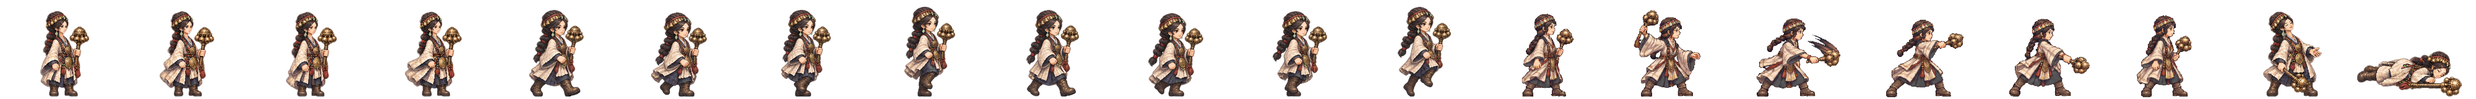
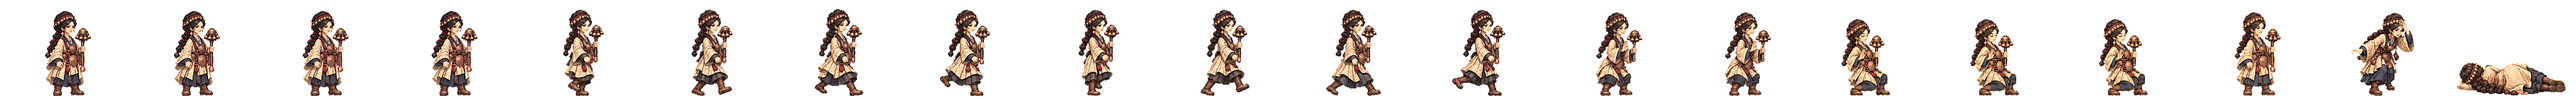
목지 진하 전투 띠를 새 방식으로: 서기(방울 막대 줄임 판)·걷기·손바닥으로 미는 시전 여덟 칸·방울 흔들기·쓰러짐·맞음 (Codex 그림 · 방울 막대를 먼 팔에 쥐게 안내 인형을 바꿔 다시 받음 · 걷기는 앞 판 · 걷기 다리 교대 약함) · 옛 2배 그림 연결 지움
Claude-Session: https://claude.ai/code/session_01TRiuN7s6aDfSnaHxrkctmU

Changed region(s): [[0.0, 0.0625, 1.0, 0.9688]]

diff --git a/src/realm/data/spritePx.ts b/src/realm/data/spritePx.ts
@@ -1,3 +1,3 @@
 /** public/realm/anim-px/manifest.json 의 사본 — tools/sprite-normalize.mjs 가 만든다 (손으로 고치지 말 것). 칸 [가로, 세로] · feet = 발 줄(칸 위에서 y) · bodyPx = 서 있는 몸 키 */
 import { expandManifest } from './sprite-manifest.ts'
-export const SPRITE_PX: Readonly<Record<string, { readonly cell: readonly [number, number]; readonly feet: number; readonly bodyPx: number; readonly kind: 'general' | 'soldier' | 'folk' | 'crowd'; readonly cells: number }>> = expandManifest<{ readonly cell: readonly [number, number]; readonly feet: number; readonly bodyPx: number; readonly kind: 'general' | 'soldier' | 'folk' | 'crowd'; readonly cells: number }>([{"cell":[166,128],"feet":126,"bodyPx":124,"kind":"soldier","cells":20},{"cell":[116,128],"feet":126,"bodyPx":117,"kind":"soldier","cells":20},{"cell":[127,128],"feet":126,"bodyPx":116,"kind":"soldier","cells":20},{"cell":[269,128],"feet":126,"bodyPx":126,"kind":"soldier","cells":20},{"cell":[503,128],"feet":126,"bodyPx":127,"kind":"soldier","cells":20},{"cell":[614,128],"feet":126,"bodyPx":126,"kind":"soldier","cells":20},{"cell":[200,160],"feet":156,"bodyPx":138,"kind":"general","cells":20},{"cell":[208,160],"feet":155,"bodyPx":138,"kind":"general","cells":20},{"cell":[208,160],"feet":154,"bodyPx":138,"kind":"general","cells":20},{"cell":[208,160],"feet":154,"bodyPx":135,"kind":"general","cells":20},{"cell":[184,160],"feet":156,"bodyPx":138,"kind":"general","cells":20},{"cell":[208,160],"feet":154,"bodyPx":136,"kind":"general","cells":20},{"cell":[208,160],"feet":156,"bodyPx":138,"kind":"general","cells":20},{"cell":[168,160],"feet":156,"bodyPx":124,"kind":"general","cells":20},{"cell":[216,160],"feet":156,"bodyPx":130,"kind":"general","cells":20},{"cell":[200,160],"feet":156,"bodyPx":116,"kind":"general","cells":20},{"cell":[192,160],"feet":156,"bodyPx":138,"kind":"general","cells":20},{"cell":[280,160],"feet":156,"bodyPx":138,"kind":"general","cells":20},{"cell":[232,160],"feet":156,"bodyPx":134,"kind":"general","cells":20},{"cell":[144,160],"feet":156,"bodyPx":70,"kind":"general","cells":20},{"cell":[208,160],"feet":156,"bodyPx":70,"kind":"general","cells":20},{"cell":[192,160],"feet":156,"bodyPx":70,"kind":"general","cells":20},{"cell":[240,160],"feet":155,"bodyPx":138,"kind":"general","cells":20},{"cell":[192,160],"feet":156,"bodyPx":128,"kind":"general","cells":20},{"cell":[232,160],"feet":156,"bodyPx":138,"kind":"general","cells":20},{"cell":[208,160],"feet":154,"bodyPx":137,"kind":"general","cells":20},{"cell":[208,160],"feet":154,"bodyPx":139,"kind":"general","cells":20},{"cell":[216,160],"feet":156,"bodyPx":138,"kind":"general","cells":20},{"cell":[208,160],"feet":156,"bodyPx":134,"kind":"general","cells":20},{"cell":[208,160],"feet":154,"bodyPx":130,"kind":"general","cells":20},{"cell":[248,160],"feet":156,"bodyPx":138,"kind":"general","cells":20},{"cell":[248,160],"feet":155,"bodyPx":138,"kind":"general","cells":20},{"cell":[192,160],"feet":155,"bodyPx":138,"kind":"general","cells":20},{"cell":[192,160],"feet":156,"bodyPx":124,"kind":"general","cells":20},{"cell":[208,160],"feet":154,"bodyPx":131,"kind":"general","cells":20},{"cell":[240,160],"feet":156,"bodyPx":138,"kind":"general","cells":20},{"cell":[232,160],"feet":156,"bodyPx":73,"kind":"general","cells":20},{"cell":[224,160],"feet":156,"bodyPx":138,"kind":"general","cells":20},{"cell":[224,160],"feet":156,"bodyPx":128,"kind":"general","cells":20},{"cell":[176,160],"feet":156,"bodyPx":129,"kind":"general","cells":20},{"cell":[232,160],"feet":155,"bodyPx":138,"kind":"general","cells":20},{"cell":[208,160],"feet":156,"bodyPx":132,"kind":"general","cells":20},{"cell":[184,160],"feet":156,"bodyPx":122,"kind":"general","cells":20},{"cell":[280,160],"feet":155,"bodyPx":133,"kind":"general","cells":20},{"cell":[176,160],"feet":156,"bodyPx":70,"kind":"general","cells":20},{"cell":[186,128],"feet":126,"bodyPx":127,"kind":"soldier","cells":20},{"cell":[298,128],"feet":126,"bodyPx":126,"kind":"soldier","cells":20},{"cell":[82,128],"feet":126,"bodyPx":114,"kind":"folk","cells":8},{"cell":[134,128],"feet":126,"bodyPx":119,"kind":"soldier","cells":20},{"cell":[380,128],"feet":126,"bodyPx":124,"kind":"soldier","cells":20},{"cell":[114,128],"feet":126,"bodyPx":115,"kind":"soldier","cells":20},{"cell":[122,128],"feet":126,"bodyPx":114,"kind":"soldier","cells":20},{"cell":[254,128],"feet":126,"bodyPx":128,"kind":"soldier","cells":20},{"cell":[438,128],"feet":126,"bodyPx":126,"kind":"soldier","cells":20},{"cell":[88,128],"feet":126,"bodyPx":113,"kind":"folk","cells":8},{"cell":[100,128],"feet":126,"bodyPx":115,"kind":"folk","cells":8},{"cell":[108,128],"feet":126,"bodyPx":115,"kind":"folk","cells":8},{"cell":[63,128],"feet":126,"bodyPx":113,"kind":"folk","cells":8},{"cell":[69,96],"feet":96,"bodyPx":96,"kind":"crowd","cells":1},{"cell":[54,96],"feet":96,"bodyPx":96,"kind":"crowd","cells":1},{"cell":[47,96],"feet":96,"bodyPx":96,"kind":"crowd","cells":1},{"cell":[49,96],"feet":96,"bodyPx":96,"kind":"crowd","cells":1},{"cell":[57,96],"feet":96,"bodyPx":96,"kind":"crowd","cells":1},{"cell":[55,96],"feet":96,"bodyPx":96,"kind":"crowd","cells":1},{"cell":[45,96],"feet":96,"bodyPx":96,"kind":"crowd","cells":1},{"cell":[53,96],"feet":96,"bodyPx":96,"kind":"crowd","cells":1},{"cell":[64,96],"feet":96,"bodyPx":96,"kind":"crowd","cells":1},{"cell":[264,160],"feet":156,"bodyPx":138,"kind":"general","cells":20},{"cell":[184,160],"feet":156,"bodyPx":124,"kind":"general","cells":20},{"cell":[256,160],"feet":156,"bodyPx":138,"kind":"general","cells":20},{"cell":[208,160],"feet":154,"bodyPx":134,"kind":"general","cells":20},{"cell":[224,160],"feet":156,"bodyPx":133,"kind":"general","cells":20},{"cell":[184,160],"feet":156,"bodyPx":137,"kind":"general","cells":20},{"cell":[176,160],"feet":156,"bodyPx":130,"kind":"general","cells":20},{"cell":[216,160],"feet":156,"bodyPx":134,"kind":"general","cells":20},{"cell":[216,160],"feet":156,"bodyPx":132,"kind":"general","cells":20},{"cell":[288,160],"feet":156,"bodyPx":138,"kind":"general","cells":20},{"cell":[192,160],"feet":156,"bodyPx":118,"kind":"general","cells":20},{"cell":[208,160],"feet":154,"bodyPx":132,"kind":"general","cells":20},{"cell":[208,160],"feet":154,"bodyPx":128,"kind":"general","cells":20},{"cell":[240,160],"feet":156,"bodyPx":128,"kind":"general","cells":20},{"cell":[184,160],"feet":156,"bodyPx":132,"kind":"general","cells":20},{"cell":[208,160],"feet":156,"bodyPx":123,"kind":"general","cells":20},{"cell":[192,160],"feet":156,"bodyPx":135,"kind":"general","cells":20},{"cell":[176,160],"feet":156,"bodyPx":116,"kind":"general","cells":20},{"cell":[272,160],"feet":156,"bodyPx":138,"kind":"general","cells":20},{"cell":[176,160],"feet":156,"bodyPx":138,"kind":"general","cells":20},{"cell":[176,160],"feet":156,"bodyPx":122,"kind":"general","cells":20},{"cell":[232,160],"feet":156,"bodyPx":127,"kind":"general","cells":20},{"cell":[184,160],"feet":156,"bodyPx":134,"kind":"general","cells":20},{"cell":[168,160],"feet":156,"bodyPx":138,"kind":"general","cells":20},{"cell":[176,160],"feet":156,"bodyPx":137,"kind":"general","cells":20},{"cell":[184,160],"feet":156,"bodyPx":133,"kind":"general","cells":20}],[["axe",0],["bandit-chief",1],["bandit-club",2],["boat",3],["bow",4],["crossbow",5],["gen-adogan",6],["gen-alpyeong",7],["gen-ara",8],["gen-areum",8],["gen-aryeong",9],["gen-bakdal",8],["gen-baram",8],["gen-bdanbi",10],["gen-beom",11],["gen-beombal",8],["gen-beomi",8],["gen-bira",8],["gen-biryu",12],["gen-budeul",8],["gen-byeol",8],["gen-daemusin",13],["gen-daeso",14],["gen-dallae2",8],["gen-dalli",8],["gen-damul",15],["gen-danbi",8],["gen-dangung",16],["gen-darae",9],["gen-dokmudeom",8],["gen-duman",17],["gen-eomni",8],["gen-eureum",18],["gen-g-bow",19],["gen-g-spear",20],["gen-g-sword",21],["gen-gaennae",8],["gen-gamsil",22],["gen-gaon",9],["gen-geota",12],["gen-geumbawi",10],["gen-geumha",23],["gen-goeun",8],["gen-gom",8],["gen-gomok",12],["gen-gureum",8],["gen-guryema",16],["gen-gwaeyu",24],["gen-haebi",8],["gen-haedal",6],["gen-haesol",8],["gen-halla",25],["gen-heo",8],["gen-hneoul",26],["gen-hogong",27],["gen-hojin",12],["gen-horselord",28],["gen-hwalmi",29],["gen-hyeokgeose",16],["gen-hyeopbo",6],["gen-irang",8],["gen-jibaekho",30],["gen-jinha",31],["gen-jita",32],["gen-jumong",33],["gen-keundol",7],["gen-maehwa",34],["gen-maenun",16],["gen-malgalgi",8],["gen-mari",35],["gen-maro",30],["gen-maryeo",12],["gen-mdallae",8],["gen-mir",8],["gen-mount",36],["gen-mulbeom",25],["gen-mulsae",25],["gen-musoe",27],["gen-noeul",8],["gen-nuri",8],["gen-ocheongan",37],["gen-odi",8],["gen-odogan",6],["gen-ogan",16],["gen-oi",38],["gen-olddaeso",18],["gen-onjo",39],["gen-pidogan",12],["gen-sagong",26],["gen-sdallae",8],["gen-sincheongan",8],["gen-singwigan",27],["gen-sinneoul",8],["gen-sobeol",40],["gen-soebi",8],["gen-soebo",41],["gen-soenun",26],["gen-sogeumbi",25],["gen-songbi",8],["gen-songyang",42],["gen-sori",8],["gen-soseono",43],["gen-suro",16],["gen-tahae",6],["gen-tneoul",8],["gen-w-bow",19],["gen-w-spear",44],["gen-waechief",12],["gen-wan",27],["gen-yeodogan",12],["gen-yucheongan",8],["gen-yusugan",30],["horse",45],["marine",46],["migrant",47],["militia",48],["pike",49],["pirate-captain",50],["pirate-sword",51],["shield",52],["spear",53],["villager-builder",54],["villager-farmer",55],["villager-porter",56],["villager-woman",57],["crowd-b1",58],["crowd-b2",59],["crowd-b3",60],["crowd-b4",61],["crowd-b5",62],["crowd-b6",63],["crowd-f1",58],["crowd-f2",63],["crowd-f3",64],["crowd-f4",65],["crowd-f5",58],["crowd-f6",66],["gen-dalbit",12],["gen-base-g-07-drunk-warrior",16],["gen-base-g-40-anya-adan",12],["gen-base-w-13-young-archer",8],["gen-base-g-03-sea-trader",35],["gen-base-w-10-pirate-captain",26],["gen-base-w-64-miri-dallae",26],["gen-base-g-41-goja-bau",35],["gen-base-g-42-dokro-garam",67],["gen-base-g-09-farmer-conscript",27],["gen-base-w-02-goguryeo-lady",8],["gen-base-w-17-mahan-pearl-diver",8],["gen-base-g-17-saro-isageum",41],["gen-base-g-18-daegaya-king",68],["gen-base-g-35-dabeol-dalgu",12],["gen-base-g-19-sabeol-veteran",27],["gen-base-w-23-usisan-whale-queen",8],["gen-base-g-36-gammun-gamdol",37],["gen-base-g-20-samul-sea-lord",69],["gen-base-g-37-eumjeup-jeup",10],["gen-base-g-38-chopal-palmae",16],["gen-base-w-75-daegaya-soemoe",8],["gen-base-g-45-dabeol-deulgae",10],["gen-base-g-04-jinhan-giant",12],["gen-base-g-08-veteran",12],["gen-base-w-18-jinhan-salt-widow",8],["gen-base-w-12-court-dancer",70],["gen-base-w-83-gyeonji-beodeul",71],["gen-base-w-05-baekje-queen",9],["gen-base-w-21-baekje-court-dancer",10],["gen-base-g-01-master-smith",72],["gen-base-g-93-jomun-solgae",73],["gen-base-g-57-bihwa-neup",35],["gen-base-w-72-eumjeup-beol",8],["gen-base-w-102-garak-dana",26],["gen-base-g-68-baekje-onnuri",12],["gen-base-w-27-mokji-jinha",6],["gen-base-g-22-ungcheon-gomnae",6],["gen-base-g-23-sangdang-soedal",12],["gen-base-g-24-wansan-onsan",6],["gen-base-g-25-balla-keunmoe",27],["gen-base-g-61-heomcheuk-bawi",27],["gen-base-g-88-wander-soeul",37],["gen-base-w-14-feast-spy",8],["gen-base-g-12-silla-youth",74],["gen-base-w-08-mahan-warrior",8],["gen-base-g-62-beonye-hanul",35],["gen-base-g-63-heomcheuk-beogeum",12],["gen-base-g-84-wander-seoneul",12],["gen-base-w-50-siljik-mulga",27],["gen-base-g-46-uga-nureongso",27],["gen-base-w-80-usan-gangchi",26],["gen-base-g-47-guga-sanyanggae",27],["gen-base-w-76-gampyeong-baetsagong",8],["gen-base-g-05-mahan-chieftain",75],["gen-base-g-58-usan-uhae",12],["gen-base-g-27-maek-maekdol",12],["gen-base-w-53-hwanna-gabi",26],["gen-base-w-29-golpo-janmul",8],["gen-base-g-53-baekje-haeru",6],["gen-base-w-71-yeonna-neoul",8],["gen-base-w-79-yangmaek-solmae",8],["gen-base-w-34-chopal-deulme",8],["gen-base-g-44-maga-malgup",76],["gen-base-w-31-dabeol-dalbit",26],["gen-base-g-51-biryuna-mulgyeol",37],["gen-base-g-48-gwanna-musoe",12],["gen-base-g-32-uga-sodu",24],["gen-base-g-49-goguryeo-sona",77],["gen-base-g-30-gwanna-soemoe",37],["gen-base-g-52-tamna-oreum",10],["gen-base-g-29-yeonna-myeongsol",33],["gen-base-w-56-dongokjeo-sogeum",70],["gen-base-g-54-mokji-mahan",24],["gen-base-g-33-jeoga-metdol",16],["gen-base-w-36-baekje-maena",8],["gen-base-w-38-sangdang-bulmae",26],["gen-base-w-39-gosaburi-galmae",8],["gen-base-w-40-mujin-munui",78],["gen-base-w-41-hwanna-beodeul",79],["gen-base-w-43-uga-nuri",69],["gen-base-w-45-tamna-oreumbi",10],["gen-base-g-60-golbeol-golgae",10],["gen-base-g-61-apdok-ap",27],["gen-base-g-62-gammun-gamnamu",6],["gen-base-g-63-chopal-yeoul",30],["gen-base-g-64-michuhol-sogeumkkun",35],["gen-base-g-65-sangdang-soemangchi",37],["gen-base-g-66-geonma-malbalgup",80],["gen-base-g-67-gosaburi-buri",81],["gen-base-g-68-mujin-bitgoeul",10],["gen-base-g-69-goryong-yong",37],["gen-base-g-70-siljik-pado",35],["gen-base-w-81-byeokjin-byeolbit",8],["gen-base-w-46-geonma-maru",8],["gen-base-w-48-mujin-mudeung",8],["gen-base-g-26-gampyeong-gaetbeol",24],["gen-base-g-60-eupcha-hangyeol",82],["gen-base-g-15-shaman-man",27],["gen-base-g-85-wander-ure",30],["gen-base-g-43-hwanna-amnok",12],["gen-base-g-50-bullae-gwaha",83],["gen-base-g-55-saro-bakdal",12],["gen-base-g-56-haseulla-gwahama",6],["gen-base-w-06-buyeo-huntress",25],["gen-base-w-22-dongye-tiger-huntress",8],["gen-base-w-25-bihwa-priestess",8],["gen-base-w-24-apdok-queen",8],["gen-base-w-61-iseo-sinae",8],["gen-base-w-26-iseo-tomboy-general",8],["gen-base-g-59-yangmaek-maekson",84],["gen-aw1-haebi",37],["gen-aw1-soseono",85],["gen-aw1-gamsil",10],["gen-aw1-mir",86],["gen-aw1-dangung",6],["gen-aw1-ara",37],["gen-aw1-jumong",87],["gen-aw1-onjo",88],["gen-aw1-base-w-83-gyeonji-beodeul",16],["gen-aw1-heo",67],["gen-aw1-base-g-38-chopal-palmae",6],["gen-aw1-base-w-25-bihwa-priestess",89],["gen-aw1-sori",90],["gen-aw1-gomok",6],["gen-aw1-irang",16],["gen-aw1-budeul",90],["gen-aw1-gom",35],["gen-aw1-sdallae",6],["gen-aw1-base-w-13-young-archer",6],["gen-aw1-base-w-36-baekje-maena",91],["gen-aw1-base-g-09-farmer-conscript",67],["gen-aw1-base-w-02-goguryeo-lady",92],["gen-aw1-haedal",10],["gen-aw1-hogong",6],["gen-aw1-maehwa",86],["gen-aw1-base-w-06-buyeo-huntress",24],["gen-aw1-base-w-08-mahan-warrior",37],["gen-aw1-base-w-29-golpo-janmul",37],["gen-aw1-base-w-31-dabeol-dalbit",16],["gen-aw1-base-w-38-sangdang-bulmae",90],["gen-aw1-bira",27],["gen-aw1-base-w-53-hwanna-gabi",90],["gen-aw1-base-w-56-dongokjeo-sogeum",86],["gen-aw1-base-w-72-eumjeup-beol",16],["gen-aw1-bdanbi",90],["gen-aw1-beom",10],["gen-aw1-beombal",10],["gen-aw1-byeol",16],["gen-aw1-dalli",86],["gen-aw1-malgalgi",30],["gen-aw1-sincheongan",27]])
+export const SPRITE_PX: Readonly<Record<string, { readonly cell: readonly [number, number]; readonly feet: number; readonly bodyPx: number; readonly kind: 'general' | 'soldier' | 'folk' | 'crowd'; readonly cells: number }>> = expandManifest<{ readonly cell: readonly [number, number]; readonly feet: number; readonly bodyPx: number; readonly kind: 'general' | 'soldier' | 'folk' | 'crowd'; readonly cells: number }>([{"cell":[166,128],"feet":126,"bodyPx":124,"kind":"soldier","cells":20},{"cell":[116,128],"feet":126,"bodyPx":117,"kind":"soldier","cells":20},{"cell":[127,128],"feet":126,"bodyPx":116,"kind":"soldier","cells":20},{"cell":[269,128],"feet":126,"bodyPx":126,"kind":"soldier","cells":20},{"cell":[503,128],"feet":126,"bodyPx":127,"kind":"soldier","cells":20},{"cell":[614,128],"feet":126,"bodyPx":126,"kind":"soldier","cells":20},{"cell":[200,160],"feet":156,"bodyPx":138,"kind":"general","cells":20},{"cell":[208,160],"feet":155,"bodyPx":138,"kind":"general","cells":20},{"cell":[208,160],"feet":154,"bodyPx":138,"kind":"general","cells":20},{"cell":[208,160],"feet":154,"bodyPx":135,"kind":"general","cells":20},{"cell":[184,160],"feet":156,"bodyPx":138,"kind":"general","cells":20},{"cell":[208,160],"feet":154,"bodyPx":136,"kind":"general","cells":20},{"cell":[208,160],"feet":156,"bodyPx":138,"kind":"general","cells":20},{"cell":[168,160],"feet":156,"bodyPx":124,"kind":"general","cells":20},{"cell":[216,160],"feet":156,"bodyPx":130,"kind":"general","cells":20},{"cell":[200,160],"feet":156,"bodyPx":116,"kind":"general","cells":20},{"cell":[192,160],"feet":156,"bodyPx":138,"kind":"general","cells":20},{"cell":[280,160],"feet":156,"bodyPx":138,"kind":"general","cells":20},{"cell":[232,160],"feet":156,"bodyPx":134,"kind":"general","cells":20},{"cell":[144,160],"feet":156,"bodyPx":70,"kind":"general","cells":20},{"cell":[208,160],"feet":156,"bodyPx":70,"kind":"general","cells":20},{"cell":[192,160],"feet":156,"bodyPx":70,"kind":"general","cells":20},{"cell":[240,160],"feet":155,"bodyPx":138,"kind":"general","cells":20},{"cell":[192,160],"feet":156,"bodyPx":128,"kind":"general","cells":20},{"cell":[232,160],"feet":156,"bodyPx":138,"kind":"general","cells":20},{"cell":[208,160],"feet":154,"bodyPx":137,"kind":"general","cells":20},{"cell":[208,160],"feet":154,"bodyPx":139,"kind":"general","cells":20},{"cell":[216,160],"feet":156,"bodyPx":138,"kind":"general","cells":20},{"cell":[208,160],"feet":156,"bodyPx":134,"kind":"general","cells":20},{"cell":[208,160],"feet":154,"bodyPx":130,"kind":"general","cells":20},{"cell":[248,160],"feet":156,"bodyPx":138,"kind":"general","cells":20},{"cell":[248,160],"feet":155,"bodyPx":138,"kind":"general","cells":20},{"cell":[192,160],"feet":155,"bodyPx":138,"kind":"general","cells":20},{"cell":[192,160],"feet":156,"bodyPx":124,"kind":"general","cells":20},{"cell":[208,160],"feet":154,"bodyPx":131,"kind":"general","cells":20},{"cell":[240,160],"feet":156,"bodyPx":138,"kind":"general","cells":20},{"cell":[232,160],"feet":156,"bodyPx":73,"kind":"general","cells":20},{"cell":[224,160],"feet":156,"bodyPx":138,"kind":"general","cells":20},{"cell":[224,160],"feet":156,"bodyPx":128,"kind":"general","cells":20},{"cell":[176,160],"feet":156,"bodyPx":129,"kind":"general","cells":20},{"cell":[232,160],"feet":155,"bodyPx":138,"kind":"general","cells":20},{"cell":[208,160],"feet":156,"bodyPx":132,"kind":"general","cells":20},{"cell":[184,160],"feet":156,"bodyPx":122,"kind":"general","cells":20},{"cell":[280,160],"feet":155,"bodyPx":133,"kind":"general","cells":20},{"cell":[176,160],"feet":156,"bodyPx":70,"kind":"general","cells":20},{"cell":[186,128],"feet":126,"bodyPx":127,"kind":"soldier","cells":20},{"cell":[298,128],"feet":126,"bodyPx":126,"kind":"soldier","cells":20},{"cell":[82,128],"feet":126,"bodyPx":114,"kind":"folk","cells":8},{"cell":[134,128],"feet":126,"bodyPx":119,"kind":"soldier","cells":20},{"cell":[380,128],"feet":126,"bodyPx":124,"kind":"soldier","cells":20},{"cell":[114,128],"feet":126,"bodyPx":115,"kind":"soldier","cells":20},{"cell":[122,128],"feet":126,"bodyPx":114,"kind":"soldier","cells":20},{"cell":[254,128],"feet":126,"bodyPx":128,"kind":"soldier","cells":20},{"cell":[438,128],"feet":126,"bodyPx":126,"kind":"soldier","cells":20},{"cell":[88,128],"feet":126,"bodyPx":113,"kind":"folk","cells":8},{"cell":[100,128],"feet":126,"bodyPx":115,"kind":"folk","cells":8},{"cell":[108,128],"feet":126,"bodyPx":115,"kind":"folk","cells":8},{"cell":[63,128],"feet":126,"bodyPx":113,"kind":"folk","cells":8},{"cell":[69,96],"feet":96,"bodyPx":96,"kind":"crowd","cells":1},{"cell":[54,96],"feet":96,"bodyPx":96,"kind":"crowd","cells":1},{"cell":[47,96],"feet":96,"bodyPx":96,"kind":"crowd","cells":1},{"cell":[49,96],"feet":96,"bodyPx":96,"kind":"crowd","cells":1},{"cell":[57,96],"feet":96,"bodyPx":96,"kind":"crowd","cells":1},{"cell":[55,96],"feet":96,"bodyPx":96,"kind":"crowd","cells":1},{"cell":[45,96],"feet":96,"bodyPx":96,"kind":"crowd","cells":1},{"cell":[53,96],"feet":96,"bodyPx":96,"kind":"crowd","cells":1},{"cell":[64,96],"feet":96,"bodyPx":96,"kind":"crowd","cells":1},{"cell":[264,160],"feet":156,"bodyPx":138,"kind":"general","cells":20},{"cell":[184,160],"feet":156,"bodyPx":124,"kind":"general","cells":20},{"cell":[256,160],"feet":156,"bodyPx":138,"kind":"general","cells":20},{"cell":[208,160],"feet":154,"bodyPx":134,"kind":"general","cells":20},{"cell":[224,160],"feet":156,"bodyPx":133,"kind":"general","cells":20},{"cell":[184,160],"feet":156,"bodyPx":137,"kind":"general","cells":20},{"cell":[176,160],"feet":156,"bodyPx":130,"kind":"general","cells":20},{"cell":[216,160],"feet":156,"bodyPx":134,"kind":"general","cells":20},{"cell":[216,160],"feet":156,"bodyPx":132,"kind":"general","cells":20},{"cell":[288,160],"feet":156,"bodyPx":138,"kind":"general","cells":20},{"cell":[192,160],"feet":156,"bodyPx":118,"kind":"general","cells":20},{"cell":[208,160],"feet":154,"bodyPx":132,"kind":"general","cells":20},{"cell":[208,160],"feet":154,"bodyPx":128,"kind":"general","cells":20},{"cell":[240,160],"feet":156,"bodyPx":128,"kind":"general","cells":20},{"cell":[184,160],"feet":156,"bodyPx":132,"kind":"general","cells":20},{"cell":[208,160],"feet":156,"bodyPx":123,"kind":"general","cells":20},{"cell":[192,160],"feet":156,"bodyPx":135,"kind":"general","cells":20},{"cell":[176,160],"feet":156,"bodyPx":116,"kind":"general","cells":20},{"cell":[272,160],"feet":156,"bodyPx":138,"kind":"general","cells":20},{"cell":[176,160],"feet":156,"bodyPx":138,"kind":"general","cells":20},{"cell":[176,160],"feet":156,"bodyPx":122,"kind":"general","cells":20},{"cell":[232,160],"feet":156,"bodyPx":127,"kind":"general","cells":20},{"cell":[184,160],"feet":156,"bodyPx":134,"kind":"general","cells":20},{"cell":[168,160],"feet":156,"bodyPx":138,"kind":"general","cells":20},{"cell":[176,160],"feet":156,"bodyPx":137,"kind":"general","cells":20},{"cell":[184,160],"feet":156,"bodyPx":133,"kind":"general","cells":20}],[["axe",0],["bandit-chief",1],["bandit-club",2],["boat",3],["bow",4],["crossbow",5],["gen-adogan",6],["gen-alpyeong",7],["gen-ara",8],["gen-areum",8],["gen-aryeong",9],["gen-bakdal",8],["gen-baram",8],["gen-bdanbi",10],["gen-beom",11],["gen-beombal",8],["gen-beomi",8],["gen-bira",8],["gen-biryu",12],["gen-budeul",8],["gen-byeol",8],["gen-daemusin",13],["gen-daeso",14],["gen-dallae2",8],["gen-dalli",8],["gen-damul",15],["gen-danbi",8],["gen-dangung",16],["gen-darae",9],["gen-dokmudeom",8],["gen-duman",17],["gen-eomni",8],["gen-eureum",18],["gen-g-bow",19],["gen-g-spear",20],["gen-g-sword",21],["gen-gaennae",8],["gen-gamsil",22],["gen-gaon",9],["gen-geota",12],["gen-geumbawi",10],["gen-geumha",23],["gen-goeun",8],["gen-gom",8],["gen-gomok",12],["gen-gureum",8],["gen-guryema",16],["gen-gwaeyu",24],["gen-haebi",8],["gen-haedal",6],["gen-haesol",8],["gen-halla",25],["gen-heo",8],["gen-hneoul",26],["gen-hogong",27],["gen-hojin",12],["gen-horselord",28],["gen-hwalmi",29],["gen-hyeokgeose",16],["gen-hyeopbo",6],["gen-irang",8],["gen-jibaekho",30],["gen-jinha",31],["gen-jita",32],["gen-jumong",33],["gen-keundol",7],["gen-maehwa",34],["gen-maenun",16],["gen-malgalgi",8],["gen-mari",35],["gen-maro",30],["gen-maryeo",12],["gen-mdallae",8],["gen-mir",8],["gen-mount",36],["gen-mulbeom",25],["gen-mulsae",25],["gen-musoe",27],["gen-noeul",8],["gen-nuri",8],["gen-ocheongan",37],["gen-odi",8],["gen-odogan",6],["gen-ogan",16],["gen-oi",38],["gen-olddaeso",18],["gen-onjo",39],["gen-pidogan",12],["gen-sagong",26],["gen-sdallae",8],["gen-sincheongan",8],["gen-singwigan",27],["gen-sinneoul",8],["gen-sobeol",40],["gen-soebi",8],["gen-soebo",41],["gen-soenun",26],["gen-sogeumbi",25],["gen-songbi",8],["gen-songyang",42],["gen-sori",8],["gen-soseono",43],["gen-suro",16],["gen-tahae",6],["gen-tneoul",8],["gen-w-bow",19],["gen-w-spear",44],["gen-waechief",12],["gen-wan",27],["gen-yeodogan",12],["gen-yucheongan",8],["gen-yusugan",30],["horse",45],["marine",46],["migrant",47],["militia",48],["pike",49],["pirate-captain",50],["pirate-sword",51],["shield",52],["spear",53],["villager-builder",54],["villager-farmer",55],["villager-porter",56],["villager-woman",57],["crowd-b1",58],["crowd-b2",59],["crowd-b3",60],["crowd-b4",61],["crowd-b5",62],["crowd-b6",63],["crowd-f1",58],["crowd-f2",63],["crowd-f3",64],["crowd-f4",65],["crowd-f5",58],["crowd-f6",66],["gen-dalbit",12],["gen-base-g-07-drunk-warrior",16],["gen-base-g-40-anya-adan",12],["gen-base-w-13-young-archer",8],["gen-base-g-03-sea-trader",35],["gen-base-w-10-pirate-captain",26],["gen-base-w-64-miri-dallae",26],["gen-base-g-41-goja-bau",35],["gen-base-g-42-dokro-garam",67],["gen-base-g-09-farmer-conscript",27],["gen-base-w-02-goguryeo-lady",8],["gen-base-w-17-mahan-pearl-diver",8],["gen-base-g-17-saro-isageum",41],["gen-base-g-18-daegaya-king",68],["gen-base-g-35-dabeol-dalgu",12],["gen-base-g-19-sabeol-veteran",27],["gen-base-w-23-usisan-whale-queen",8],["gen-base-g-36-gammun-gamdol",37],["gen-base-g-20-samul-sea-lord",69],["gen-base-g-37-eumjeup-jeup",10],["gen-base-g-38-chopal-palmae",16],["gen-base-w-75-daegaya-soemoe",8],["gen-base-g-45-dabeol-deulgae",10],["gen-base-g-04-jinhan-giant",12],["gen-base-g-08-veteran",12],["gen-base-w-18-jinhan-salt-widow",8],["gen-base-w-12-court-dancer",70],["gen-base-w-83-gyeonji-beodeul",71],["gen-base-w-05-baekje-queen",9],["gen-base-w-21-baekje-court-dancer",10],["gen-base-g-01-master-smith",72],["gen-base-g-93-jomun-solgae",73],["gen-base-g-57-bihwa-neup",35],["gen-base-w-72-eumjeup-beol",8],["gen-base-w-102-garak-dana",26],["gen-base-g-68-baekje-onnuri",12],["gen-base-w-27-mokji-jinha",25],["gen-base-g-22-ungcheon-gomnae",6],["gen-base-g-23-sangdang-soedal",12],["gen-base-g-24-wansan-onsan",6],["gen-base-g-25-balla-keunmoe",27],["gen-base-g-61-heomcheuk-bawi",27],["gen-base-g-88-wander-soeul",37],["gen-base-w-14-feast-spy",8],["gen-base-g-12-silla-youth",74],["gen-base-w-08-mahan-warrior",8],["gen-base-g-62-beonye-hanul",35],["gen-base-g-63-heomcheuk-beogeum",12],["gen-base-g-84-wander-seoneul",12],["gen-base-w-50-siljik-mulga",27],["gen-base-g-46-uga-nureongso",27],["gen-base-w-80-usan-gangchi",26],["gen-base-g-47-guga-sanyanggae",27],["gen-base-w-76-gampyeong-baetsagong",8],["gen-base-g-05-mahan-chieftain",75],["gen-base-g-58-usan-uhae",12],["gen-base-g-27-maek-maekdol",12],["gen-base-w-53-hwanna-gabi",26],["gen-base-w-29-golpo-janmul",8],["gen-base-g-53-baekje-haeru",6],["gen-base-w-71-yeonna-neoul",8],["gen-base-w-79-yangmaek-solmae",8],["gen-base-w-34-chopal-deulme",8],["gen-base-g-44-maga-malgup",76],["gen-base-w-31-dabeol-dalbit",26],["gen-base-g-51-biryuna-mulgyeol",37],["gen-base-g-48-gwanna-musoe",12],["gen-base-g-32-uga-sodu",24],["gen-base-g-49-goguryeo-sona",77],["gen-base-g-30-gwanna-soemoe",37],["gen-base-g-52-tamna-oreum",10],["gen-base-g-29-yeonna-myeongsol",33],["gen-base-w-56-dongokjeo-sogeum",70],["gen-base-g-54-mokji-mahan",24],["gen-base-g-33-jeoga-metdol",16],["gen-base-w-36-baekje-maena",8],["gen-base-w-38-sangdang-bulmae",26],["gen-base-w-39-gosaburi-galmae",8],["gen-base-w-40-mujin-munui",78],["gen-base-w-41-hwanna-beodeul",79],["gen-base-w-43-uga-nuri",69],["gen-base-w-45-tamna-oreumbi",10],["gen-base-g-60-golbeol-golgae",10],["gen-base-g-61-apdok-ap",27],["gen-base-g-62-gammun-gamnamu",6],["gen-base-g-63-chopal-yeoul",30],["gen-base-g-64-michuhol-sogeumkkun",35],["gen-base-g-65-sangdang-soemangchi",37],["gen-base-g-66-geonma-malbalgup",80],["gen-base-g-67-gosaburi-buri",81],["gen-base-g-68-mujin-bitgoeul",10],["gen-base-g-69-goryong-yong",37],["gen-base-g-70-siljik-pado",35],["gen-base-w-81-byeokjin-byeolbit",8],["gen-base-w-46-geonma-maru",8],["gen-base-w-48-mujin-mudeung",8],["gen-base-g-26-gampyeong-gaetbeol",24],["gen-base-g-60-eupcha-hangyeol",82],["gen-base-g-15-shaman-man",27],["gen-base-g-85-wander-ure",30],["gen-base-g-43-hwanna-amnok",12],["gen-base-g-50-bullae-gwaha",83],["gen-base-g-55-saro-bakdal",12],["gen-base-g-56-haseulla-gwahama",6],["gen-base-w-06-buyeo-huntress",25],["gen-base-w-22-dongye-tiger-huntress",8],["gen-base-w-25-bihwa-priestess",8],["gen-base-w-24-apdok-queen",8],["gen-base-w-61-iseo-sinae",8],["gen-base-w-26-iseo-tomboy-general",8],["gen-base-g-59-yangmaek-maekson",84],["gen-aw1-haebi",37],["gen-aw1-soseono",85],["gen-aw1-gamsil",10],["gen-aw1-mir",86],["gen-aw1-dangung",6],["gen-aw1-ara",37],["gen-aw1-jumong",87],["gen-aw1-onjo",88],["gen-aw1-base-w-83-gyeonji-beodeul",16],["gen-aw1-heo",67],["gen-aw1-base-g-38-chopal-palmae",6],["gen-aw1-base-w-25-bihwa-priestess",89],["gen-aw1-sori",90],["gen-aw1-gomok",6],["gen-aw1-irang",16],["gen-aw1-budeul",90],["gen-aw1-gom",35],["gen-aw1-sdallae",6],["gen-aw1-base-w-13-young-archer",6],["gen-aw1-base-w-36-baekje-maena",91],["gen-aw1-base-g-09-farmer-conscript",67],["gen-aw1-base-w-02-goguryeo-lady",92],["gen-aw1-haedal",10],["gen-aw1-hogong",6],["gen-aw1-maehwa",86],["gen-aw1-base-w-06-buyeo-huntress",24],["gen-aw1-base-w-08-mahan-warrior",37],["gen-aw1-base-w-29-golpo-janmul",37],["gen-aw1-base-w-31-dabeol-dalbit",16],["gen-aw1-base-w-38-sangdang-bulmae",90],["gen-aw1-bira",27],["gen-aw1-base-w-53-hwanna-gabi",90],["gen-aw1-base-w-56-dongokjeo-sogeum",86],["gen-aw1-base-w-72-eumjeup-beol",16],["gen-aw1-bdanbi",90],["gen-aw1-beom",10],["gen-aw1-beombal",10],["gen-aw1-byeol",16],["gen-aw1-dalli",86],["gen-aw1-malgalgi",30],["gen-aw1-sincheongan",27]])

diff --git a/src/duel/view.ts b/src/duel/view.ts
@@ -100,7 +100,7 @@ const crowdFront = [1, 2, 3, 4, 5, 6].map((i) => img(`realm/duel/crowd/b${i}.png
 const crowdReady = (set: HTMLImageElement[]): boolean => set.every((im) => im.complete && im.naturalWidth > 0)
 const pxMode = cfg.px !== false && params.get('px') !== '0'
 /** 겨루기 전용 옛 띠(duel/sprites) 대신 열전과 같은 도트 띠(anim-px)를 쓰는 장수 — 두 판에서 같은 모습 · 서기 계획·쓰러지는 칸도 같다 (11-23 범 · 매화 · 달빛 · 11-24 해비 · 아룸) */
-const PX_DUEL: ReadonlySet<string> = new Set(['beom', 'maehwa', 'base-w-31-dabeol-dalbit', 'haebi', 'areum', 'base-w-13-young-archer', 'base-w-10-pirate-captain', 'base-w-17-mahan-pearl-diver', 'base-w-06-buyeo-huntress', 'base-w-64-miri-dallae', 'ara', 'base-w-22-dongye-tiger-huntress', 'noeul', 'sagong', 'sinneoul', 'heo', 'base-w-08-mahan-warrior', 'base-w-23-usisan-whale-queen', 'base-w-26-iseo-tomboy-general', 'base-w-72-eumjeup-beol', 'tneoul', 'odi', 'base-w-76-gampyeong-baetsagong', 'base-w-34-chopal-deulme', 'base-w-102-garak-dana', 'base-w-36-baekje-maena', 'base-w-56-dongokjeo-sogeum', 'budeul', 'base-w-53-hwanna-gabi', 'base-w-18-jinhan-salt-widow', 'beombal', 'irang', 'sogeumbi', 'baram', 'byeol', 'base-w-71-yeonna-neoul', 'base-w-39-gosaburi-galmae', 'base-w-41-hwanna-beodeul', 'base-w-79-yangmaek-solmae', 'base-w-46-geonma-maru', 'base-w-48-mujin-mudeung', 'base-w-80-usan-gangchi', 'base-w-81-byeokjin-byeolbit', 'beomi', 'danbi', 'dalli', 'gureum', 'haesol', 'soenun', 'eomni', 'mulbeom', 'mulsae', 'bakdal', 'darae', 'sori', 'base-w-12-court-dancer', 'hwalmi', 'gaennae', 'dokmudeom', 'base-w-14-feast-spy', 'base-w-25-bihwa-priestess', 'sincheongan', 'base-w-40-mujin-munui', 'halla', 'yucheongan', 'base-w-02-goguryeo-lady', 'gaon', 'base-w-24-apdok-queen', 'base-w-61-iseo-sinae', 'goeun', 'base-w-05-baekje-queen', 'mdallae', 'nuri', 'base-w-75-daegaya-soemoe', 'soebi', 'base-w-38-sangdang-bulmae', 'gom', 'songbi', 'malgalgi', 'dallae2', 'hneoul', 'sdallae', 'mir', 'aryeong', 'base-w-29-golpo-janmul', 'bira'])
+const PX_DUEL: ReadonlySet<string> = new Set(['beom', 'maehwa', 'base-w-31-dabeol-dalbit', 'haebi', 'areum', 'base-w-13-young-archer', 'base-w-10-pirate-captain', 'base-w-17-mahan-pearl-diver', 'base-w-06-buyeo-huntress', 'base-w-64-miri-dallae', 'ara', 'base-w-22-dongye-tiger-huntress', 'noeul', 'sagong', 'sinneoul', 'heo', 'base-w-08-mahan-warrior', 'base-w-23-usisan-whale-queen', 'base-w-26-iseo-tomboy-general', 'base-w-72-eumjeup-beol', 'tneoul', 'odi', 'base-w-76-gampyeong-baetsagong', 'base-w-34-chopal-deulme', 'base-w-102-garak-dana', 'base-w-36-baekje-maena', 'base-w-56-dongokjeo-sogeum', 'budeul', 'base-w-53-hwanna-gabi', 'base-w-18-jinhan-salt-widow', 'beombal', 'irang', 'sogeumbi', 'baram', 'byeol', 'base-w-71-yeonna-neoul', 'base-w-39-gosaburi-galmae', 'base-w-41-hwanna-beodeul', 'base-w-79-yangmaek-solmae', 'base-w-46-geonma-maru', 'base-w-48-mujin-mudeung', 'base-w-80-usan-gangchi', 'base-w-81-byeokjin-byeolbit', 'beomi', 'danbi', 'dalli', 'gureum', 'haesol', 'soenun', 'eomni', 'mulbeom', 'mulsae', 'bakdal', 'darae', 'sori', 'base-w-12-court-dancer', 'hwalmi', 'gaennae', 'dokmudeom', 'base-w-14-feast-spy', 'base-w-25-bihwa-priestess', 'sincheongan', 'base-w-40-mujin-munui', 'halla', 'yucheongan', 'base-w-02-goguryeo-lady', 'gaon', 'base-w-24-apdok-queen', 'base-w-61-iseo-sinae', 'goeun', 'base-w-05-baekje-queen', 'mdallae', 'nuri', 'base-w-75-daegaya-soemoe', 'soebi', 'base-w-38-sangdang-bulmae', 'gom', 'songbi', 'malgalgi', 'dallae2', 'hneoul', 'sdallae', 'mir', 'aryeong', 'base-w-29-golpo-janmul', 'bira', 'base-w-27-mokji-jinha'])
 /** 띠 그림 — 기본은 anim-px(도트 규격) 먼저, 없으면 옛 띠로 (img 의 onerror 가 갈아 끼운다) */
 const strip = (s: string): HTMLImageElement => pxMode
   ? DUEL_ATLASES[s] !== undefined && !PX_DUEL.has(s) ? img(`realm/duel/sprites/gen-${s}.png`, `realm/anim-px/gen-${s}.png`)

diff --git a/src/tune/params.ts b/src/tune/params.ts
@@ -1562,6 +1562,7 @@ export const HAEBI_IDLE = {
     aryeong: { cells: 38, base: [0, 1], hold: 2.4, fall: [18, 20, 21, 19], quirk: [22, 23, 24, 25], quirkTimes: [.3, .32, .4, .28], attack: { cells: [26, 27, 28, 29, 30, 31, 32, 33], times: [.09, .08, .11, .05, .15, .07, .08, .12], hit: 4 }, hurt: [34, 35], rise: [36, 37], xGeom: { h: 224, root: 92, foot: 216 } },
     'base-w-29-golpo-janmul': { cells: 38, base: [0, 1], hold: 2.4, fall: [18, 20, 21, 19], quirk: [22, 23, 24, 25], quirkTimes: [.3, .32, .4, .28], attack: { cells: [26, 27, 28, 29, 30, 31, 32, 33], times: [.09, .08, .11, .05, .15, .07, .08, .12], hit: 4 }, hurt: [34, 35], rise: [36, 37], xGeom: { h: 224, root: 92, foot: 216 } },
     bira: { cells: 38, base: [0, 1], hold: 2.4, fall: [18, 20, 21, 19], quirk: [22, 23, 24, 25], quirkTimes: [.3, .32, .4, .28], attack: { cells: [26, 27, 28, 29, 30, 31, 32, 33], times: [.09, .08, .22, .05, .15, .07, .08, .12], hit: 4 }, hurt: [34, 35], rise: [36, 37], xGeom: { h: 224, root: 92, foot: 216 } },
+    'base-w-27-mokji-jinha': { cells: 38, base: [0, 1], hold: 2.4, fall: [18, 20, 21, 19], quirk: [22, 23, 24, 25], quirkTimes: [.3, .32, .4, .28], attack: { cells: [26, 27, 28, 29, 30, 31, 32, 33], times: [.09, .08, .30, .05, .15, .07, .08, .12], hit: 4 }, hurt: [34, 35], rise: [36, 37], xGeom: { h: 224, root: 92, foot: 216 } },
   },
 } as const
 export const HAEBI_ANIM = {

diff --git a/src/raid/hero-hd.ts b/src/raid/hero-hd.ts
@@ -14,7 +14,6 @@ export const HERO_HD: Readonly<Record<string, string>> = {
   'anim-px/gen-aw1-base-w-56-dongokjeo-sogeum.png': 'anim-px/gen-aw1-base-w-56-dongokjeo-sogeum_hd.png',
   'anim-px/gen-aw1-base-w-53-hwanna-gabi.png': 'anim-px/gen-aw1-base-w-53-hwanna-gabi_hd.png',
   'anim-px/gen-aw1-base-w-38-sangdang-bulmae.png': 'anim-px/gen-aw1-base-w-38-sangdang-bulmae_hd.png',
-  'anim-px/gen-base-w-27-mokji-jinha.png': 'anim-px/gen-base-w-27-mokji-jinha_hd.png',
   'anim-px/gen-aw1-base-w-36-baekje-maena.png': 'anim-px/gen-aw1-base-w-36-baekje-maena_hd.png',
   'anim-px/gen-aw1-base-w-31-dabeol-dalbit.png': 'anim-px/gen-aw1-base-w-31-dabeol-dalbit_hd.png',
   'anim-px/gen-aw1-base-w-29-golpo-janmul.png': 'anim-px/gen-aw1-base-w-29-golpo-janmul_hd.png',

diff --git a/tools/sprite-kit/anim-harness.py b/tools/sprite-kit/anim-harness.py
@@ -128,6 +128,7 @@ HEROES = {
     'dallae2': dict(hit=True, strip='gen-dallae2', atk='slash', atk8=True, act=True, legacy=(('a', 1), ('a', 3), ('b', 2), ('b', 4))),   # 살해 달래(굽은 단검 둘 · 가슴 M) · 11-25 열넷째 묶음
     'aryeong': dict(hit=True, strip='gen-aryeong', atk='thrust', src='thrust3', backfoot=True, actw=264, atk8=True, act=True, legacy=(('a', 2), ('a', 3), ('b', 3), ('b', 4))),   # 사로 아령(창 · 가슴 M) · 11-25 열넷째 묶음
     'janmul': dict(hit=True, strip='gen-base-w-29-golpo-janmul', atk='thrust', src='thrust3', backfoot=True, actw=264, atk8=True, act=True, legacy=(('a', 2), ('a', 3), ('b', 3), ('b', 4))),   # 골포 잔물(주걱 노 · 가슴 M) · 11-25 열넷째 묶음
+    'mjinha': dict(hit=True, strip='gen-base-w-27-mokji-jinha', atk='cast', actw=264, atk8=True, act=True, legacy=(('a', 1), ('b', 3), ('b', 3), ('b', 4))),   # 목지 진하(방울 막대 · 맨손 시전 hand · 가슴 M) · 11-25 열넷째 묶음
     'areum': dict(hit=True, strip='gen-areum', atk='slam', atk8=True, act=True, lock='none'),   # 받은 그림 그대로(얼굴을 떠다 붙이지 않는다 — 11-24: 뭉친 얼굴이 여덟 칸에 퍼졌다) · 옛 lock='face': 메가 머리 뒤로 지나간다 — 머리 상자는 메를 자르고(「포스터」), 윗몸을 통째로 묶으면 떠다닌다(11-24 형) → 얼굴 안쪽만 묶는다
 }
 
